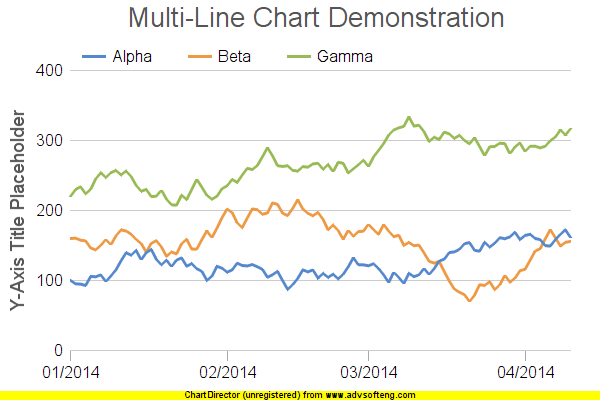
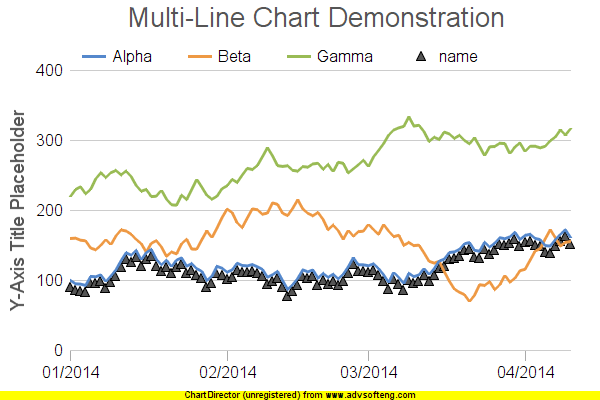
算是搞定了作图标记买卖

Changed region(s): [[0.09, 0.57, 0.96, 0.75], [0.69, 0.12, 0.81, 0.18]]

diff --git a/algorithm/simple_ma.py b/algorithm/simple_ma.py
@@ -3,7 +3,7 @@ import os
 
 from account.account import MoneyAccount
 from algorithm.simu_utils import cal_return_level_with_account
-from chart.chart_utils import draw_line_chart, default_colors
+from chart.chart_utils import draw_line_chart, default_colors, none_y_value
 from data.db.db_helper import DBYahooDay
 from data.info import Infos
 from data.info_utils import all_stock_and_clean_day_lines, resolve_ma
@@ -80,6 +80,8 @@ def ma(ma_type, stock_name, repo_count=3, down_buy_percent=0.05, win_percent=0.0
         chart_account_property = list()
         chart_grid_names = list()
         chart_tem_prices = list()
+        buy_points = list()
+        sell_points = list()
 
         # 数据量必须够, 否则没有意义
         if len(stock_lines) < m:
@@ -100,13 +102,16 @@ def ma(ma_type, stock_name, repo_count=3, down_buy_percent=0.05, win_percent=0.0
             value_m = resolve_ma(stock_lines[index + 1 - m: index + 1], m)
             cur_price = stock_lines[index][DBYahooDay.line_close_index]
             cur_date = stock_lines[index][DBYahooDay.line_date_index]
+            cur_char_hori = cur_date[5:].replace('-', '')
 
             # 画表需要的值
             chart_values_n.append(value_n)
             chart_values_m.append(value_m)
             chart_price.append(cur_price)
-            chart_grid_names.append(cur_date[6:])
+            chart_grid_names.append(cur_char_hori)
             chart_tem_prices.append(stock_tem_prices[index] * trans_percent_tem)
+            buyed = False
+            selled = False
 
             if ma_type == 0:
                 if state == 0:
@@ -168,8 +173,10 @@ def ma(ma_type, stock_name, repo_count=3, down_buy_percent=0.05, win_percent=0.0
                     if value_n >= value_m:
                         # 出现向上交叉, 买入
                         if stock_name not in money_account.stocks:
-                            money_account.buy_with_repos(stock_name, stock_line[DBYahooDay.line_close_index],
-                                                         stock_line[DBYahooDay.line_date_index], 1)
+                            if money_account.buy_with_repos(stock_name, stock_line[DBYahooDay.line_close_index],
+                                                            stock_line[DBYahooDay.line_date_index], 1):
+                                buy_points.append(cur_price)
+                                buyed = True
                         state = 0
                 else:
                     if value_m >= value_n:
@@ -187,13 +194,22 @@ def ma(ma_type, stock_name, repo_count=3, down_buy_percent=0.05, win_percent=0.0
                     if money_account.stocks[stock_name].return_percent >= win_percent / money_account.stock_repos[
                         stock_name]:
                         # 全部卖掉
-                        money_account.sell_with_repos(stock_name, stock_line[DBYahooDay.line_close_index],
-                                                      stock_line[DBYahooDay.line_date_index],
-                                                      money_account.stock_repos[stock_name])
+                        if money_account.sell_with_repos(stock_name, stock_line[DBYahooDay.line_close_index],
+                                                         stock_line[DBYahooDay.line_date_index],
+                                                         money_account.stock_repos[stock_name]):
+                            sell_points.append(cur_price)
+                            selled = True
                     elif money_account.stocks[stock_name].return_percent < down_buy_percent:
                         # 买入一份
-                        money_account.buy_with_repos(stock_name, stock_line[DBYahooDay.line_close_index],
-                                                     stock_line[DBYahooDay.line_date_index], 1)
+                        if money_account.buy_with_repos(stock_name, stock_line[DBYahooDay.line_close_index],
+                                                        stock_line[DBYahooDay.line_date_index], 1):
+                            buy_points.append(cur_price)
+                            buyed = True
+
+            if not buyed:
+                buy_points.append(none_y_value)
+            if not selled:
+                sell_points.append(none_y_value)
 
             # accout的价值加入图表变量中
             chart_account_property.append(money_account.property * trans_percent)
@@ -202,7 +218,7 @@ def ma(ma_type, stock_name, repo_count=3, down_buy_percent=0.05, win_percent=0.0
         draw_line_chart(chart_grid_names,
                         [chart_price, chart_values_n, chart_values_m, chart_account_property, chart_tem_prices],
                         ['price', 'ma5', 'ma10', 'account', 'shangzheng'], default_colors[0:5], chart_title,
-                        output_dir=chart_dir_path)
+                        output_dir=chart_dir_path, buy_points=buy_points, sell_points=sell_points)
         # log
         log_with_filename(chart_dir_name, money_account)
         # 保存结果
@@ -482,21 +498,23 @@ if __name__ == '__main__':
     # win 0.05 0.1
     # down 0.05 0.1
     # n, m 5,10 10,20
-    start_ma(3, repo_count=3, win_percent=0.05, down_buy_percent=0.05, n=5, m=10)
-
-    start_ma(3, repo_count=3, win_percent=0.05, down_buy_percent=0.05, n=10, m=20)
-
-    start_ma(3, repo_count=3, win_percent=0.05, down_buy_percent=0.1, n=5, m=10)
-
-    start_ma(3, repo_count=3, win_percent=0.05, down_buy_percent=0.1, n=10, m=20)
-
-    start_ma(3, repo_count=3, win_percent=0.1, down_buy_percent=0.05, n=5, m=10)
-
-    start_ma(3, repo_count=3, win_percent=0.1, down_buy_percent=0.05, n=10, m=20)
-
-    start_ma(3, repo_count=3, win_percent=0.1, down_buy_percent=0.1, n=5, m=10)
-
-    start_ma(3, repo_count=3, win_percent=0.1, down_buy_percent=0.1, n=10, m=20)
+    # start_ma(3, repo_count=3, win_percent=0.05, down_buy_percent=0.05, n=5, m=10)
+    #
+    # start_ma(3, repo_count=3, win_percent=0.05, down_buy_percent=0.05, n=10, m=20)
+    #
+    # start_ma(3, repo_count=3, win_percent=0.05, down_buy_percent=0.1, n=5, m=10)
+    #
+    # start_ma(3, repo_count=3, win_percent=0.05, down_buy_percent=0.1, n=10, m=20)
+    #
+    # start_ma(3, repo_count=3, win_percent=0.1, down_buy_percent=0.05, n=5, m=10)
+    #
+    # start_ma(3, repo_count=3, win_percent=0.1, down_buy_percent=0.05, n=10, m=20)
+    #
+    # start_ma(3, repo_count=3, win_percent=0.1, down_buy_percent=0.1, n=5, m=10)
+    #
+    # start_ma(3, repo_count=3, win_percent=0.1, down_buy_percent=0.1, n=10, m=20)
 
     # start_win_percent_ma(5, 10, 0.1)
     # start_win_percent_ma(10, 20, 0.1)
+
+    ma(3, 's600171_ss', 3, 0.05, 0.1, 5, 10)

diff --git a/chart/chart_utils.py b/chart/chart_utils.py
@@ -9,16 +9,21 @@ default_path = '/Users/wgx/workspace/python/stone/1v_stone/result'
 default_colors = [0xff0000, 0x008800, 0x3333ff, 0x1ad145, 0xff9500]
 
 # 买入和卖出标记的颜色, 买入, 蓝色, 卖出, 红色
-buy_color = 0x478fe0
+buy_color = 0xccd6dc
 sell_color = 0xff5656
+
+# 画点时, 必须指定一个无效的y值
+none_y_value=0
 
 
 def draw_line_chart(horizontal_grid_name, values, line_names, line_colors, title, horizontal_name='', vertical_name='',
-                    output_dir=None, opt_points=None):
+                    output_dir=None, buy_points=None, sell_points=None):
     """
     画折线图
-    :param opt_points: 操作的位置, 买入画B, 卖出画S, 坐标单位必须是horizontal_grid_name, values[0], type
-    :type opt_points: list[tuple[str|float]]
+    :param sell_points: 卖出的点位, 画灰色三角, 传入的数据长度和horizontal_grid_name 长度一致, 如果为空, 设置值为20000
+    :type sell_points: list
+    :param buy_points: 买入的点位, 画红色的三角, 传入的数据长度和horizontal_grid_name 长度一致, 如果为空, 设置值为20000
+    :type buy_points: list
     :param output_dir: 输出的目录
     :type output_dir: str
     :param line_colors: 折线的颜色, 必须与len(values)相等
@@ -65,7 +70,7 @@ def draw_line_chart(horizontal_grid_name, values, line_names, line_colors, title
     c.xAxis().setLabels(horizontal_grid_name)
 
     # Display 1 out of 3 labels on the x-axis.
-    c.xAxis().setLabelStep(len(values[0]) / 40)
+    c.xAxis().setLabelStep(len(values[0]) / 25)
 
     # Add a title to the x axis
     c.xAxis().setTitle(horizontal_name)
@@ -87,17 +92,26 @@ def draw_line_chart(horizontal_grid_name, values, line_names, line_colors, title
     else:
         output_path = os.path.join(os.path.join(default_path, title.replace(' ', '_') + '.png'))
 
-    c.makeChart(output_path)
-
-    # 加上opt点位
-    if opt_points:
-        for opt_point in opt_points:
-            if opt_point[2] == 0:
-                c.addText(c.getXCoor(opt_point[0]), c.getYCoor(opt_point[1]), 'B', "timesbi.ttf", 9, buy_color)
-            elif opt_point[2] == 1:
-                c.addText(c.getXCoor(opt_point[0]), c.getYCoor(opt_point[1]), 'S', "timesbi.ttf", 9, sell_color)
+    # 增加买入和卖出的点位
+    if buy_points and len(buy_points) > 0:
+        c.addScatterLayer([], [value * 2 for value in buy_points], "Buy Positions", 3, 10, buy_color, 0x000000)
+    if sell_points and len(sell_points) > 0:
+        c.addScatterLayer([], [value * 2 for value in sell_points], "Sell Positions", 1, 10, sell_color, 0x000000)
 
     c.makeChart(output_path)
+
+    # # 加上opt点位
+    # if opt_points and len(opt_points) > 0:
+    #     for opt_point in opt_points:
+    #         print c.getXValue(100)
+    #         print c.getXValue(150)
+    #         print c.getXValue(1200)
+    #         if opt_point[2] == 0:
+    #             c.addText(c.getXCoor(opt_point[0]), c.getYCoor(opt_point[1]), 'B', "timesbi.ttf", 9, buy_color)
+    #         elif opt_point[2] == 1:
+    #             c.addText(c.getXCoor(opt_point[0]), c.getYCoor(opt_point[1]), 'S', "timesbi.ttf", 9, sell_color)
+
+    # c.makeChart(output_path)
 
 
 if __name__ == '__main__':
@@ -111,5 +125,4 @@ if __name__ == '__main__':
 
     labels = ["0", "1", "2", "3", "4", "5", "6", "7", "8", "9", "10", "11", "12", "13", "14", "15",
               "16", "17", "18", "19", "20", "21", "22", "23", "24"]
-    draw_line_chart(labels, [data0, data1, data2], ['1', '2', '3'], default_colors[0:3], 'test',
-                    opt_points=[('5', 33, 0), ])
+    draw_line_chart(labels, [data0, data1, data2], ['1', '2', '3'], default_colors[0:3], 'test')

diff --git a/pychart_test/pychart_test_multi_line1.py b/pychart_test/pychart_test_multi_line1.py
@@ -3,15 +3,15 @@ from pychartdir import *
 
 # The data for the line chart
 data0 = [42, 49, 33, 38, 51, 46, 29, 41, 44, 57, 59, 52, 37, 34, 51, 56, 56, 60, 70, 76, 63, 67, 75,
-    64, 51]
+         64, 51]
 data1 = [50, 55, 47, 34, 42, 49, 63, 62, 73, 59, 56, 50, 64, 60, 67, 67, 58, 59, 73, 77, 84, 82, 80,
-    84, 98]
+         84, 98]
 data2 = [36, 28, 25, 33, 38, 20, 22, 30, 25, 33, 30, 24, 28, 15, 21, 26, 46, 42, 48, 45, 43, 52, 64,
-    60, 70]
+         60, 70]
 
 # The labels for the line chart
 labels = ["0", "1", "2", "3", "4", "5", "6", "7", "8", "9", "10", "11", "12", "13", "14", "15",
-    "16", "17", "18", "19", "20", "21", "22", "23", "24"]
+          "16", "17", "18", "19", "20", "21", "22", "23", "24"]
 
 # Create an XYChart object of size 600 x 300 pixels, with a light blue (EEEEFF) background, black
 # border, 1 pxiel 3D border effect and rounded corners
@@ -31,7 +31,7 @@ c.addLegend(50, 30, 0, "arialbd.ttf", 9).setBackground(Transparent)
 # 3D border.
 
 c.addTitle("Application Server Throughput", "timesbi.ttf", 15).setBackground(0xccccff, 0x000000,
-    glassEffect())
+                                                                             glassEffect())
 
 # Add a title to the y axis
 c.yAxis().setTitle("MBytes per hour")
@@ -66,6 +66,6 @@ print c.getYCoor(60)
 
 print c.getXCoor('3')
 
-c.addText(c.getXCoor('6'), c.getYCoor(80), 'B', "timesbi.ttf", 11, 0xc09090).setAlignment(TopRight)
+c.addScatterLayer(data0, data0)
 
 c.makeChart("multiline.png")

diff --git a/pychart_test/pychart_test_multi_line_2.py b/pychart_test/pychart_test_multi_line_2.py
@@ -54,5 +54,7 @@ layer.addDataSet(data2, 0x99bb55, "Gamma")
 # The x-coordinates for the line layer
 layer.setXData(timeStamps)
 
+layer1 = c.addScatterLayer(timeStamps, [data - 10 for data in data0], "name", 3, 10, 0x555555, 0x000000)
+
 # Output the chart
 c.makeChart("multiline2.png")
